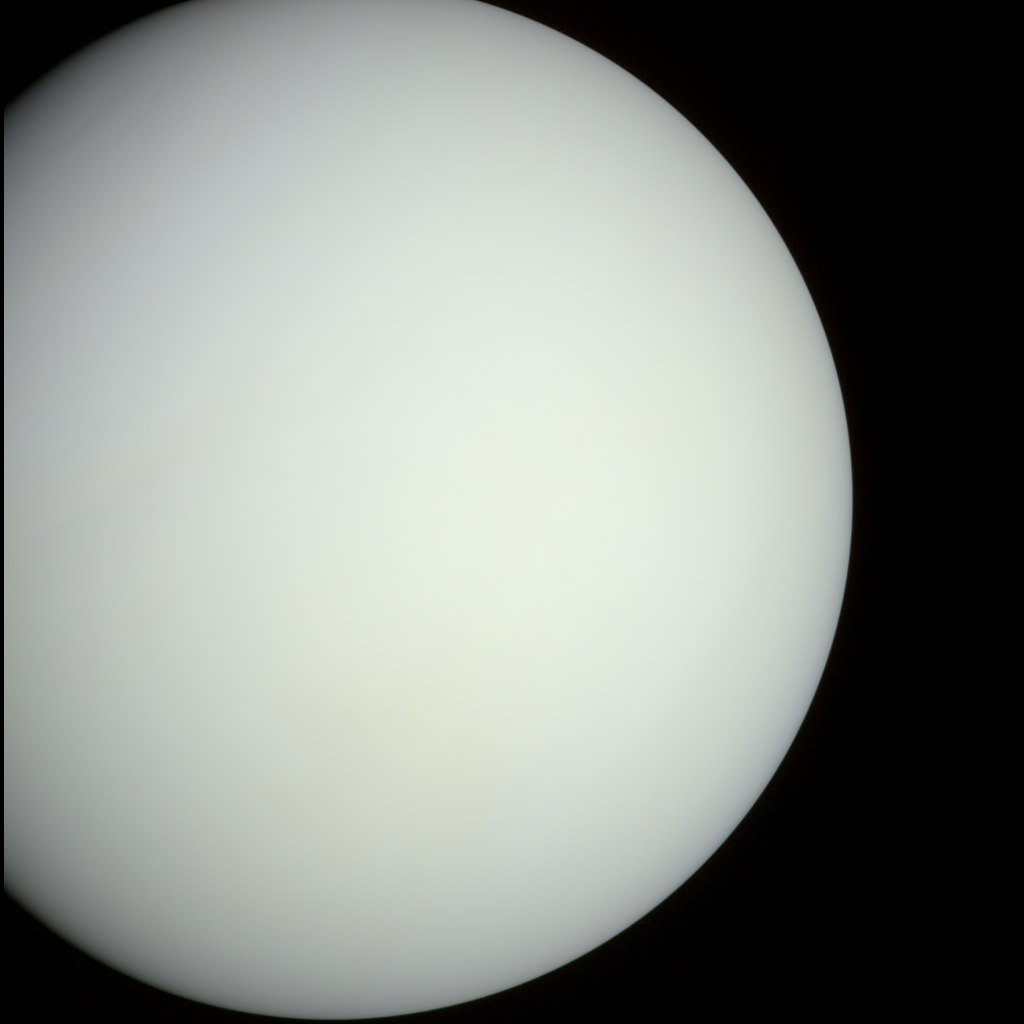
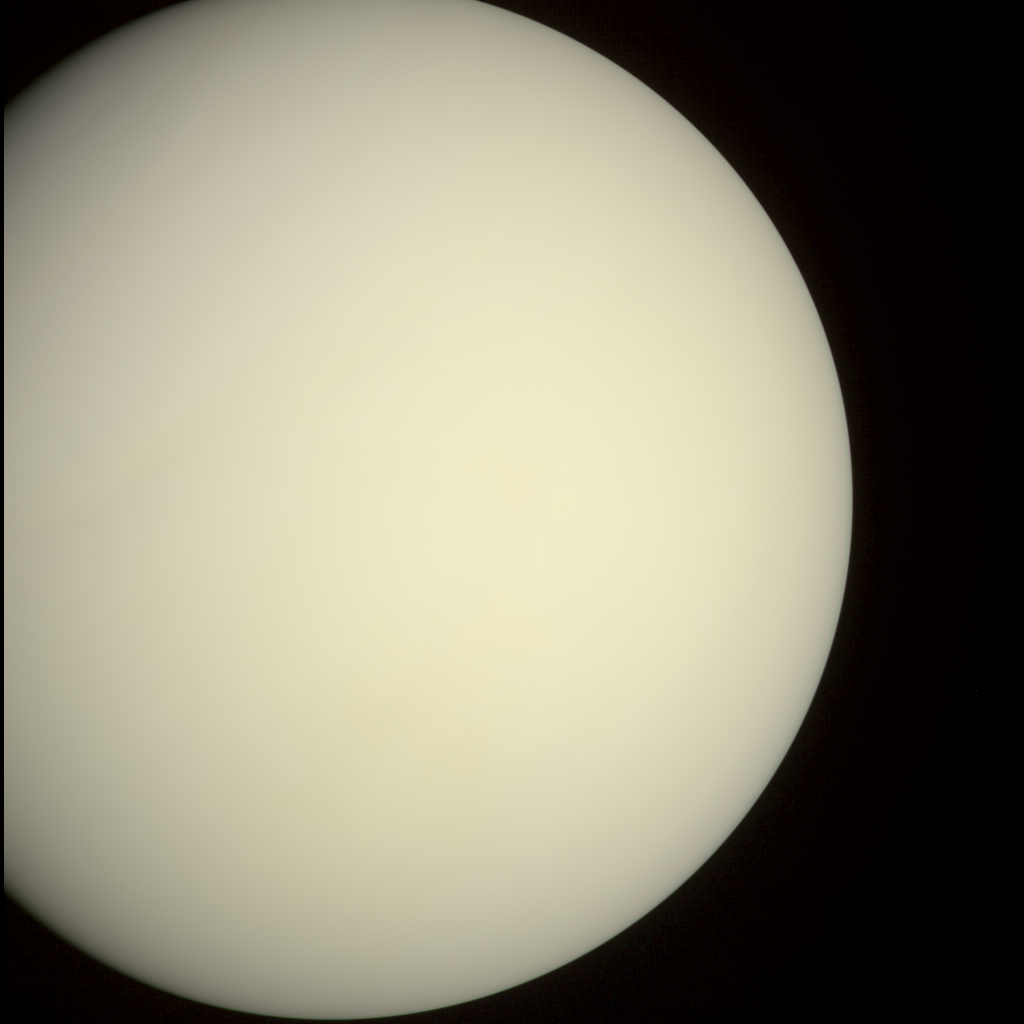
This one is the image from the reflectance based Pellier spectrum

Changed region(s): [[0.1875, 0.125, 0.7812, 0.8125]]

diff --git a/vtc/index.html b/vtc/index.html
@@ -67,7 +67,7 @@ Each of the images below is based on the same MESSENGER images tuned to differen
   </div>
 </div>
 </br>
-The images I originally created for this article resemble the Pellier and Selsis spectra white balanced to D65, as those were spectra I used as reference in 2023. However, because the MASCS data was collected by the MESSENGER probe itself, it could be seen as more scientifically grounded, though there remains a possibility that the calibration of this instrument was an issue, which seems reasonable based on the difference between it and the other spectra. The MASCS data gives a noticable more green appearance to Venus, while most others give a white to yellow appearance.
+The images I originally created for this article resemble the Pellier and Selsis spectra white balanced to D65, as those were spectra I used as reference in 2023. However, because the MASCS data was collected by the MESSENGER probe itself, it could be seen as more scientifically grounded, though there remains a possibility that the calibration of this instrument was an issue, which seems reasonable based on the difference between it and the other spectra. The MASCS data gives a noticable more green appearance to Venus, while most others give a yellow and white appearance. The inconsistency between these spectra makes me unsure which if any should really be considered the "true color" version, though the fact that the top of the cloud layer appears broadly smooth in true color is evident from the images captured by the various probes.
 </br>
 </br>
 The code I used to create these images can be found on the <a class="link" href="https://github.com/geobica/planet_color_calibrator">planet_color_calibrator repository on my Github</a>.
